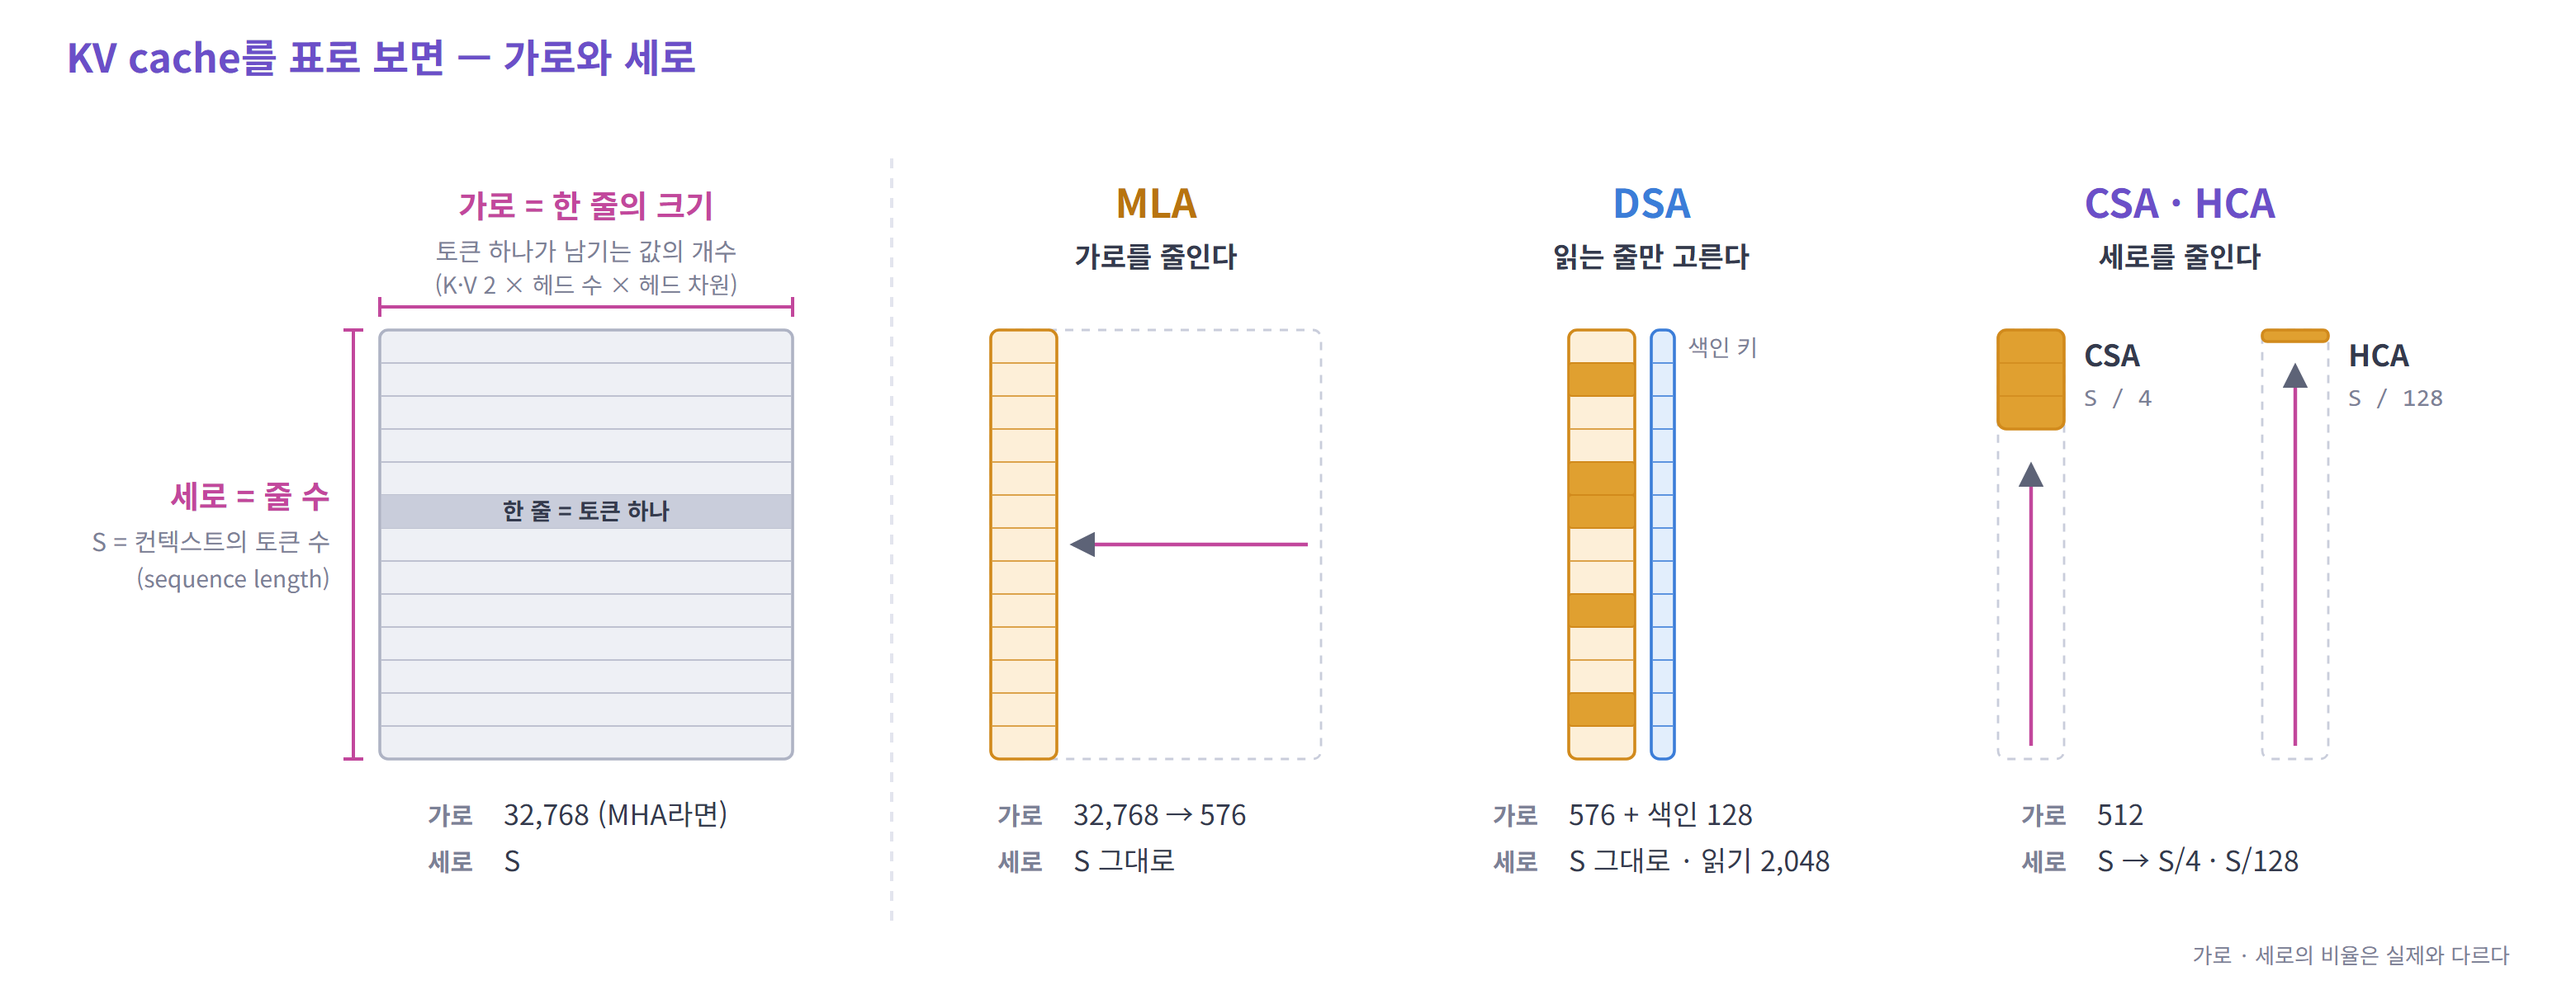
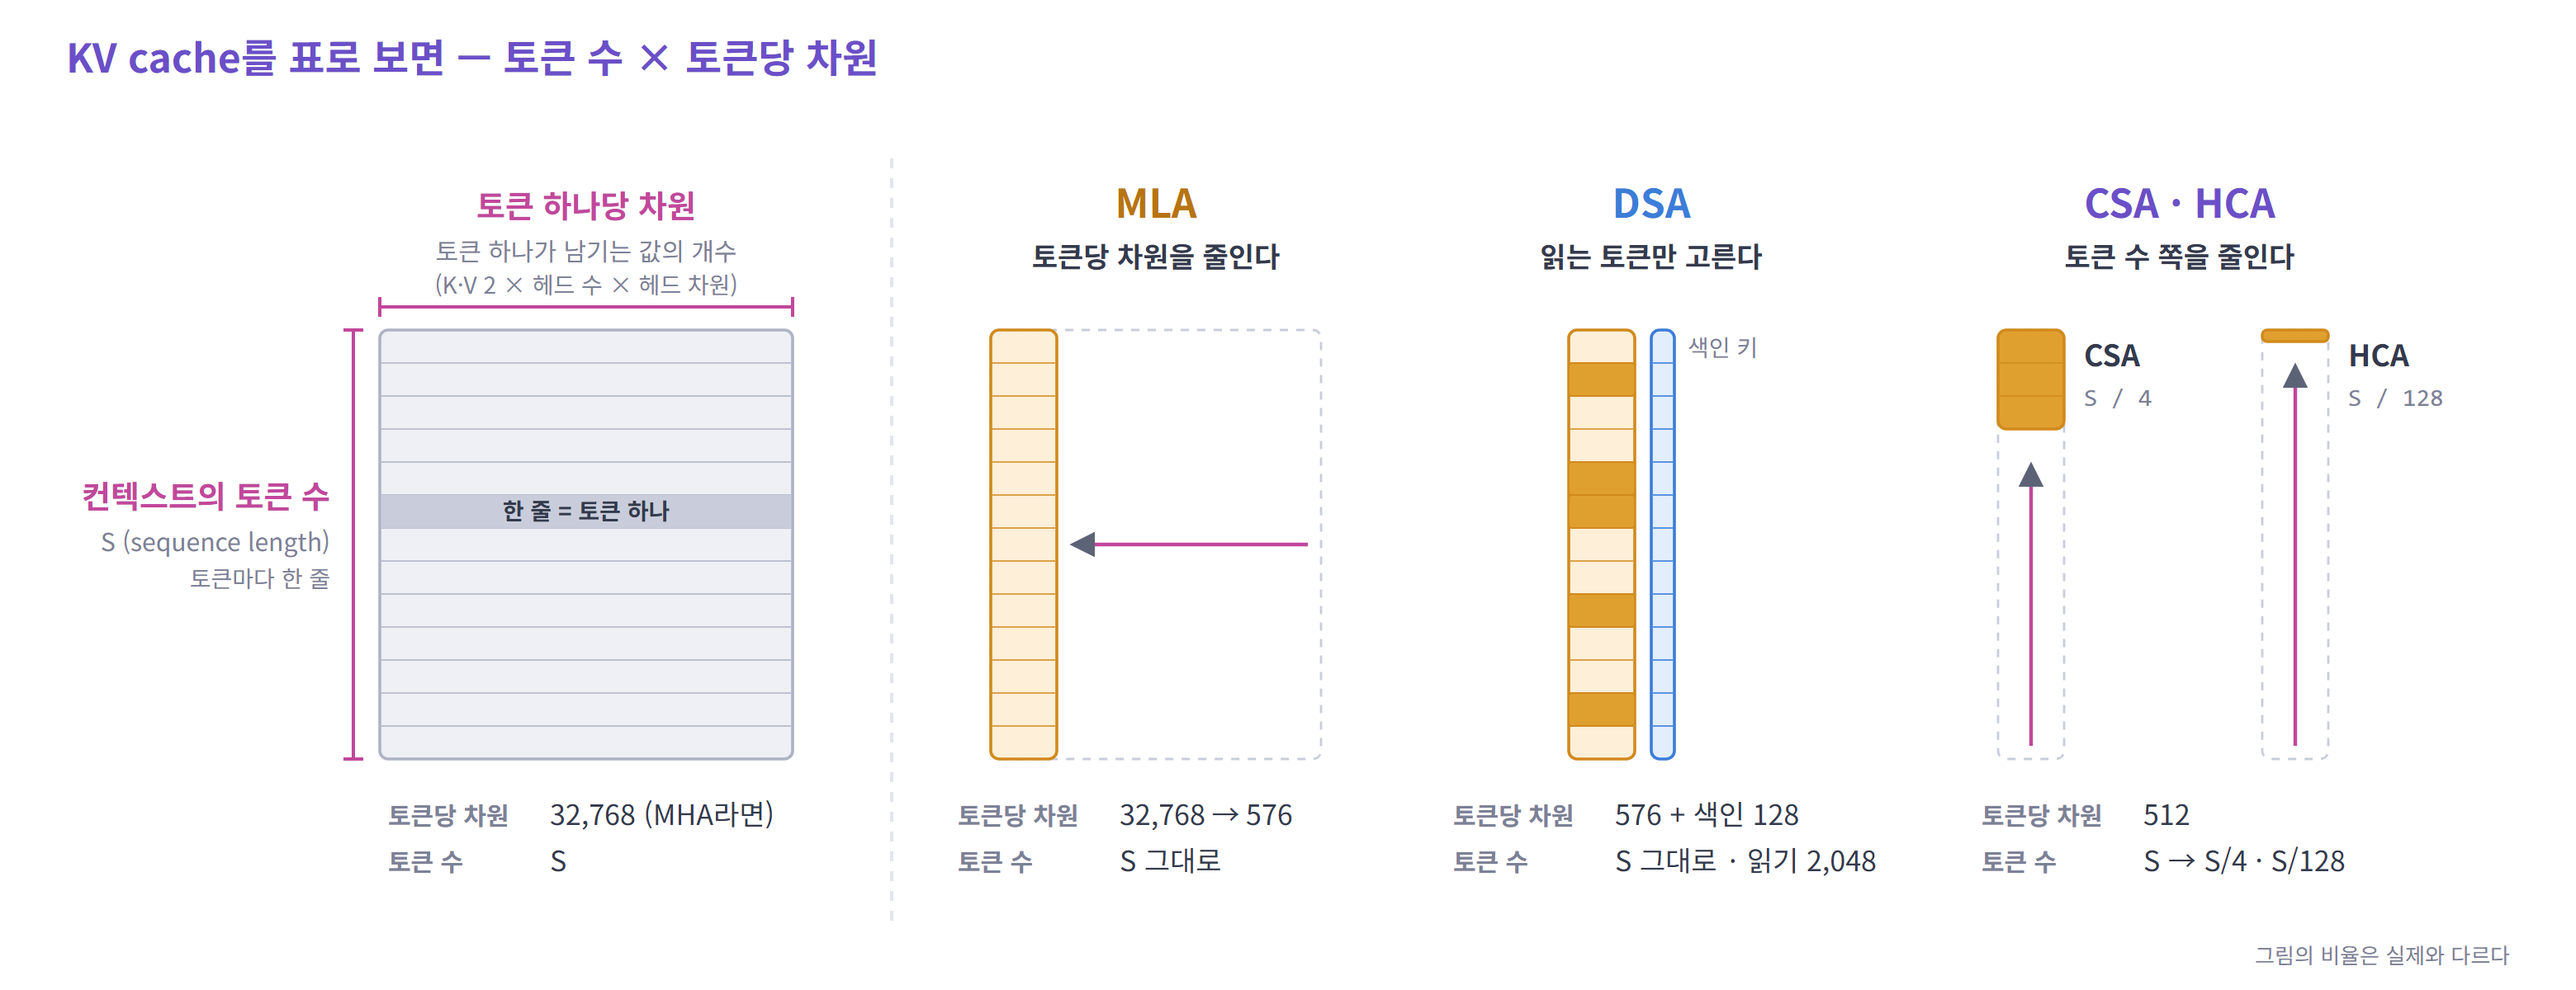
docs: rename the axes and reword the CSA/HCA section

diff --git a/seminar/figures/make_figures.py b/seminar/figures/make_figures.py
@@ -384,11 +384,11 @@ def fig_v4():
 
     # 행 이름
     f.text(48, 138, "원본 토큰", 19, "start", 700)
-    f.text(160, 138, "S줄", 15, "start", color=MUTED, mono=True)
+    f.text(160, 138, "S개", 15, "start", color=MUTED, mono=True)
     f.rect(48, 180, 92, 24, PURPLE, "none", 12)
     f.text(94, 197, "추가된 단계", 13, weight=700, color="#ffffff")
     f.text(48, 236, "① 압축", 21, "start", 700, PURPLE)
-    f.text(48, 262, "줄 수를 줄인다", 15, "start", color=MUTED)
+    f.text(48, 262, "여러 토큰 → 엔트리 1개", 15, "start", color=MUTED)
     f.text(48, 336, "② indexer · top-k", 21, "start", 700, BLUE)
     f.text(48, 362, "DSA와 같다", 15, "start", color=MUTED)
     f.text(48, 432, "③ attention", 21, "start", 700, AMB)
@@ -1143,7 +1143,7 @@ def fig_mla_tensor():
 # ---------------------------------------------------------------- 26. 줄이는 축
 def fig_axes():
     f = Fig("26-axes", 1560, 600)
-    f.title(40, 44, "KV cache를 표로 보면 — 가로와 세로")
+    f.title(40, 44, "KV cache를 표로 보면 — 토큰 수 × 토큰당 차원")
     top, RH, NR = 200, 20, 13
     H = RH * NR
     RED = "#c2479c"
@@ -1164,10 +1164,10 @@ def fig_axes():
         f.text(cx, 162, cap, 17, weight=600)
 
     def foot(cx, a_, b_):
-        f.text(cx - 96, top + H + 40, "가로", 15, "start", 700, MUTED)
-        f.text(cx - 50, top + H + 40, a_, 17, "start")
-        f.text(cx - 96, top + H + 68, "세로", 15, "start", 700, MUTED)
-        f.text(cx - 50, top + H + 68, b_, 17, "start")
+        f.text(cx - 120, top + H + 40, "토큰당 차원", 15, "start", 700, MUTED)
+        f.text(cx - 22, top + H + 40, a_, 17, "start")
+        f.text(cx - 120, top + H + 68, "토큰 수", 15, "start", 700, MUTED)
+        f.text(cx - 22, top + H + 68, b_, 17, "start")
 
     # ---- 기준 : 축의 뜻
     x0, w0 = 230, 250
@@ -1178,22 +1178,22 @@ def fig_axes():
     f.line(x0, top - 14, x0 + w0, top - 14, RED, 2)
     f.line(x0, top - 20, x0, top - 8, RED, 2)
     f.line(x0 + w0, top - 20, x0 + w0, top - 8, RED, 2)
-    f.text(x0 + w0 / 2, 132, "가로 = 한 줄의 크기", 19, weight=700, color=RED)
+    f.text(x0 + w0 / 2, 132, "토큰 하나당 차원", 19, weight=700, color=RED)
     f.text(x0 + w0 / 2, 158, "토큰 하나가 남기는 값의 개수", 15, color=MUTED)
     f.text(x0 + w0 / 2, 178, "(K·V 2 × 헤드 수 × 헤드 차원)", 14, color=MUTED)
     # 세로
     f.line(x0 - 16, top, x0 - 16, top + H, RED, 2)
     f.line(x0 - 22, top, x0 - 10, top, RED, 2)
     f.line(x0 - 22, top + H, x0 - 10, top + H, RED, 2)
-    f.text(x0 - 30, top + H / 2 - 22, "세로 = 줄 수", 19, "end", 700, RED)
-    f.text(x0 - 30, top + H / 2 + 4, "S = 컨텍스트의 토큰 수", 15, "end", color=MUTED)
-    f.text(x0 - 30, top + H / 2 + 26, "(sequence length)", 14, "end", color=MUTED)
+    f.text(x0 - 30, top + H / 2 - 22, "컨텍스트의 토큰 수", 19, "end", 700, RED)
+    f.text(x0 - 30, top + H / 2 + 4, "S (sequence length)", 15, "end", color=MUTED)
+    f.text(x0 - 30, top + H / 2 + 26, "토큰마다 한 줄", 14, "end", color=MUTED)
     foot(x0 + w0 / 2, "32,768  (MHA라면)", "S")
     f.line(540, 96, 540, 560, "#e3e5ee", 2, "6 6")
 
     # ---- MLA
     cx = 700
-    head(cx, "MLA", "가로를 줄인다", "#b87410")
+    head(cx, "MLA", "토큰당 차원을 줄인다", "#b87410")
     ghost(cx - 100, 200)
     table(cx - 100, top, 40, NR, "c")
     f.arrow(cx + 92, top + H / 2, cx - 50, top + H / 2, color=RED)
@@ -1201,7 +1201,7 @@ def fig_axes():
 
     # ---- DSA
     cx = 1000
-    head(cx, "DSA", "읽는 줄만 고른다", "#3b7dd8")
+    head(cx, "DSA", "읽는 토큰만 고른다", "#3b7dd8")
     table(cx - 50, top, 40, NR, "c")
     for r in (1, 4, 5, 8, 11):
         f.rect(cx - 50, top + r * RH, 40, RH, SOLID["c"], KINDS["c"][1], 2, 1)
@@ -1211,7 +1211,7 @@ def fig_axes():
 
     # ---- CSA · HCA
     cx = 1320
-    head(cx, "CSA · HCA", "세로를 줄인다", PURPLE)
+    head(cx, "CSA · HCA", "토큰 수 쪽을 줄인다", PURPLE)
     for dx, rows, nm, cap in ((-110, 3, "CSA", "S / 4"), (50, 0, "HCA", "S / 128")):
         ghost(cx + dx, 40)
         if rows:
@@ -1223,14 +1223,14 @@ def fig_axes():
         f.text(cx + dx + 52, top + 46, cap, 15, "start", color=MUTED, mono=True)
     foot(cx, "512", "S → S/4 · S/128")
 
-    f.text(1520, 584, "가로 · 세로의 비율은 실제와 다르다", 13, "end", color=MUTED)
+    f.text(1520, 584, "그림의 비율은 실제와 다르다", 13, "end", color=MUTED)
     return f
 
 
 # ---------------------------------------------------------------- 27. 묶는 방법
 def fig_compress():
     f = Fig("27-v4-compress", 1560, 600)
-    f.title(40, 44, "토큰 4개를 엔트리 하나로 — 평균이 아니라 학습된 가중합")
+    f.title(40, 44, "여러 토큰을 엔트리 하나로 — 평균이 아니라 학습된 가중합")
     x0, pitch, bw = 250, 82, 60
     w = [0.04, 0.06, 0.05, 0.14, 0.18, 0.08, 0.34, 0.11]
     SC, base_y = 300, 318
